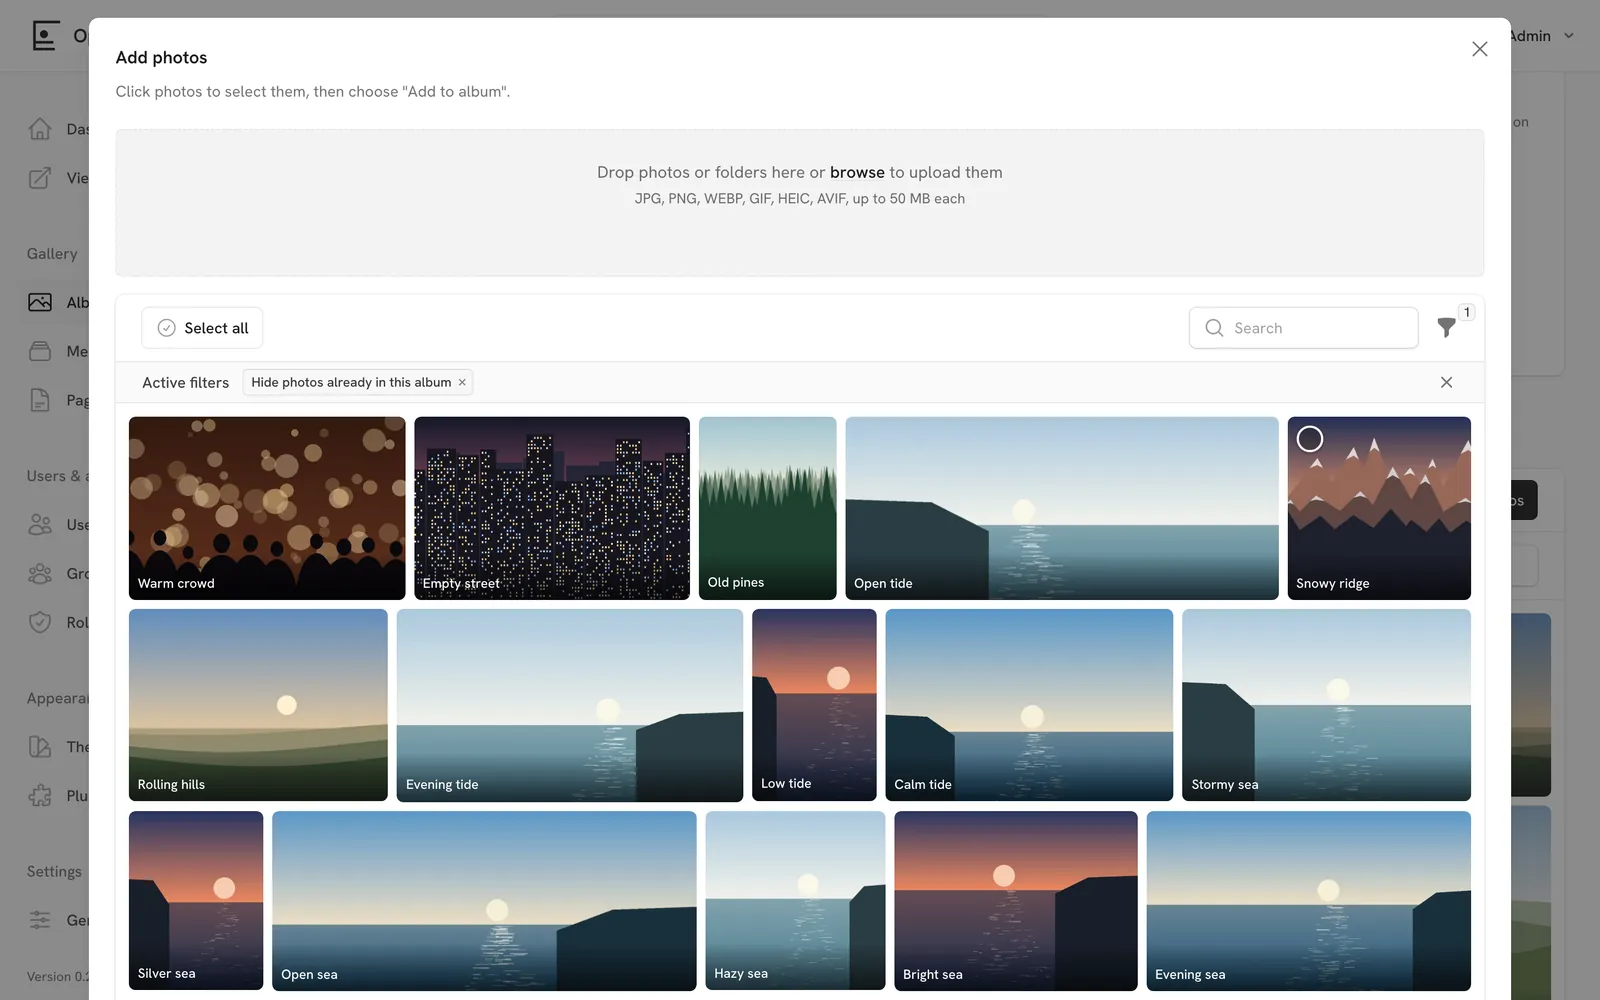
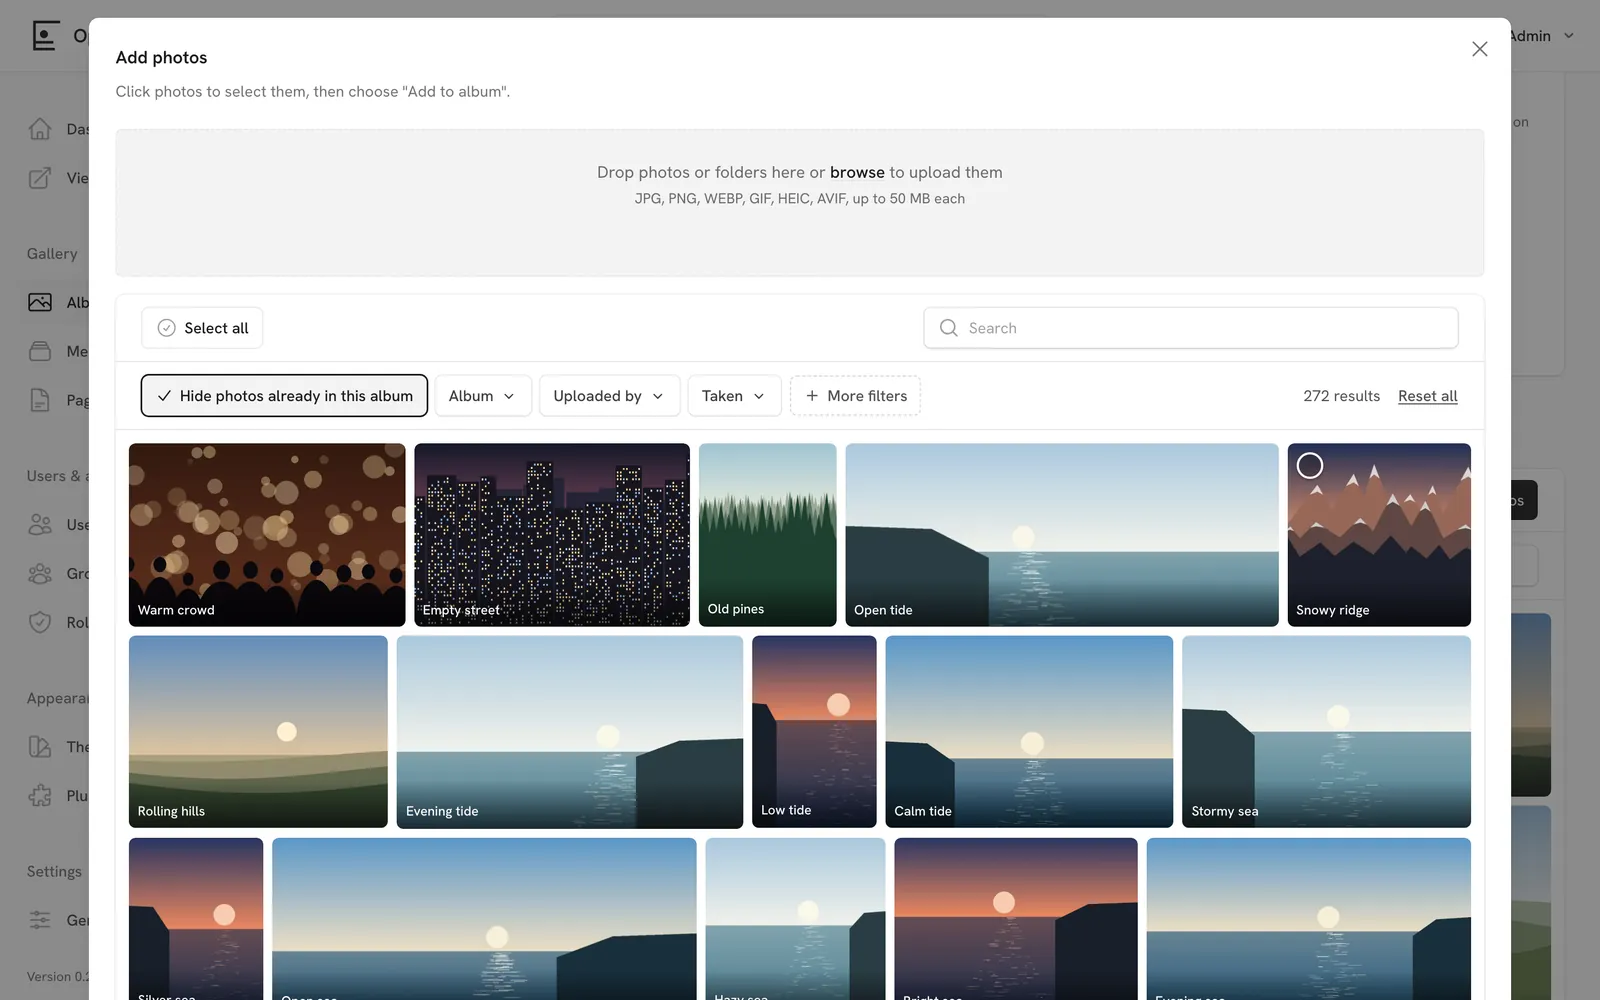
Use the filter chips in the media picker

diff --git a/tests/Feature/Backend/MediaPickerTest.php b/tests/Feature/Backend/MediaPickerTest.php
@@ -3,6 +3,7 @@
 use App\Enums\CollaboratorRole;
 use App\Enums\Permission;
 use App\Enums\Visibility;
+use App\Filament\Tables\FilterBar;
 use App\Livewire\MediaPicker;
 use App\Models\Album;
 use App\Models\Photo;
@@ -58,12 +59,29 @@ describe('for an administrator', function () {
         $picker = Livewire::test(MediaPicker::class, ['key' => 'k']);
         $table = $picker->instance()->getTable();
 
-        expect($table->getFiltersLayout())->toBe(FiltersLayout::Dropdown)
+        expect(FilterBar::uses($table))->toBeTrue()
+            ->and($table->getFiltersLayout())->toBe(FiltersLayout::Hidden)
             ->and($table->hasDeferredFilters())->toBeFalse();
 
         $picker->filterTable('uploaded', ['from' => now()->subMonths(3)->toDateString(), 'until' => now()->subMonth()->toDateString()])
             ->assertCanSeeTableRecords([$old])
             ->assertCanNotSeeTableRecords([$new]);
+    });
+
+    it('offers the photo filters of the media library', function () {
+        $album = Album::factory()->create();
+        $landscape = galleryPhoto($album, name: 'Wide.jpg', width: 300, height: 200);
+        $portrait = galleryPhoto($album, name: 'Tall.jpg', width: 200, height: 300);
+
+        $picker = Livewire::test(MediaPicker::class, ['key' => 'k']);
+        $table = $picker->instance()->getTable();
+
+        expect($table->getFilter('tags'))->not->toBeNull()
+            ->and($table->getFilter('file_name'))->not->toBeNull();
+
+        $picker->filterTable('orientation', 'portrait')
+            ->assertCanSeeTableRecords([$portrait])
+            ->assertCanNotSeeTableRecords([$landscape]);
     });
 
     it('uploads dropped photos into the configured place and selects them', function () {
@@ -159,8 +177,15 @@ describe('for people who may not use it fully', function () {
             ->assertCanSeeTableRecords([$inAlbum, $own])
             ->assertCanNotSeeTableRecords([$elsewhere]);
 
-        expect($picker->instance()->getTable()->getFilter('uploader'))->toBeNull()
-            ->and($picker->instance()->getTable()->getFilter('albums'))->toBeNull();
+        $table = $picker->instance()->getTable();
+
+        expect($table->getFilter('uploader'))->toBeNull()
+            ->and($table->getFilter('albums'))->toBeNull()
+            ->and($table->getFilter('uploaded'))->not->toBeNull();
+
+        foreach (['tags', 'orientation', 'resolution', 'file_type', 'taken', 'file_name'] as $name) {
+            expect($table->getFilter($name))->toBeNull();
+        }
     });
 
     it('refuses the picker without admin access or a role on the album', function () {

diff --git a/app/Livewire/MediaPicker.php b/app/Livewire/MediaPicker.php
@@ -3,7 +3,9 @@
 namespace App\Livewire;
 
 use App\Enums\Permission;
+use App\Filament\Resources\Photos\Tables\PhotoFilters;
 use App\Filament\Resources\Photos\Tables\PhotosTable;
+use App\Filament\Tables\FilterBar;
 use App\Filament\Tables\MediaGrid;
 use App\Models\Album;
 use App\Models\Photo;
@@ -154,7 +156,8 @@ class MediaPicker extends Component implements HasActions, HasSchemas, HasTable
 
     public function table(Table $table): Table
     {
-        return $table
+        // The same filter chips as the media library; the album scope toggle comes first.
+        return FilterBar::configure($table, primary: ['scope', 'albums', 'uploader', 'taken'])
             ->query($this->availablePhotos()->with(['media', 'albums']))
             ->defaultSort('created_at', 'desc')
             // Smaller pages than the library: the picker sits in a modal.
@@ -172,6 +175,8 @@ class MediaPicker extends Component implements HasActions, HasSchemas, HasTable
                         ->orWhereIn('photos.id', $this->justUploaded))),
                 ...($this->limitToAlbumId === null ? [PhotosTable::albumFilter(), PhotosTable::uploaderFilter()] : []),
                 PhotosTable::uploadedFilter(),
+                // Collaborators only get filters that name nobody else.
+                ...($this->limitToAlbumId === null ? PhotoFilters::all() : []),
             ])
             ->toolbarActions([
                 ...($this->multiple ? MediaGrid::selectionActions() : []),

diff --git a/docs/dev/internals/media-library.md b/docs/dev/internals/media-library.md
@@ -42,7 +42,7 @@ These changes use `updateQuietly()`, so they never show up in the activity log. 
 
 - Its query is always `Photo::visibleTo(auth()->user())`, including trashed photos, for the list, the view page and route model binding. Trashed photos are further limited to `Photo::trashableBy()` (`PhotoPolicy::delete()` in SQL: the uploader, or someone who may edit all of the photo's albums): `PhotoResource::modifyTrashQuery()` for the trash page and its count (applied by `TrashActions::trashFor()`), and in the record binding, so a trashed photo's view page opens for nobody else, just as `MediaController` serves its files.
 - `$mediaLayout` (trait `App\Filament\Resources\Photos\Pages\Concerns\HasMediaLayout`, used by `ListPhotos` and `ListTrashedPhotos`) switches between the list and the grid layout; both pages share the choice for the session. The "List" / "Grid" buttons are rendered by `App\Filament\Tables\MediaLayoutSwitch::render()` on `TablesRenderHook::TOOLBAR_END` (view `filament.tables.layout-switch`, icons only on phones) and call `setLayout()`; the trait has no `mediaLayoutActions()` and the pages have no `listLayout` / `gridLayout` header actions. Both layouts use the same search and filters from `PhotosTable`; only columns, page sizes and record actions differ. In the list layout the title, file name, album path and uploader name are cut at `PhotosTable::TEXT_LIMIT` (40) characters with the full text as a tooltip. Each album links to `AlbumResource` edit when `AlbumResource::canEdit()` allows it, the uploader to `UserResource` edit when `UserResource::canEdit()` allows it; otherwise they are plain text.
-- `PhotosTable::configure()` shows the filters as chips (`FilterBar::configure()`, see [Admin UI conventions](admin-ui.md#the-filter-bar)); primary chips: `albums`, `taken`, `tags`, `uploader`, `orientation`, the rest are under "More filters". `PhotosTable::albumFilter()`, `uploaderFilter()` and `uploadedFilter()` are shared with the photo picker, which keeps Filament's dropdown (`albumFilter()` is single-select there, `multiple: true` in the library, so the URL is `?filters[albums][values][]={id}`). Reuse them for any new photo list. `App\Filament\Resources\Photos\Tables\PhotoFilters::all()` adds the media library's own filters (list, grid and trash, not the picker): `tags` (multiple, visible only while `SiteSettings::taggingEnabled()`, with a "Without tags" empty option; it replaces the old `tagged` filter); `license`, visible only while `Licensing::enabled()`; `taken` (`DateRangeFilter` on `photos.taken_at`); `orientation` (landscape, portrait, square, from `width` and `height`); `resolution` (under 2 MP, 2-12 MP, over 12 MP, from `width * height`); `file_type` (multiple, the `gallery.accepted_mime_types` matched on the media's `mime_type`); `missing` (multiple: photos lacking any ticked detail among title, description, `taken_at` and, while licensing is on, license; `PhotoFilters::whereMissing()`); `album_count` (none / one / several, `has('albums', ...)`); `favorites` (toggle: the current user's rows of `photo_favorites`); and `file_name`, a `TextFilter` substring match on the media's `file_name`. `PhotoFilters::whereContains($query, $column, $text, $boolean)` is the portable "contains" query: it escapes `!`, `%` and `_` and uses `LIKE ? ESCAPE '!'`, which MySQL, MariaDB and SQLite all accept. Use it instead of a plain `like` for user-typed text.
+- `PhotosTable::configure()` shows the filters as chips (`FilterBar::configure()`, see [Admin UI conventions](admin-ui.md#the-filter-bar)); primary chips: `albums`, `taken`, `tags`, `uploader`, `orientation`, the rest are under "More filters". `PhotosTable::albumFilter()`, `uploaderFilter()`, `uploadedFilter()` and `PhotoFilters::all()` are shared with the photo picker, which uses the same filter bar (`albumFilter()` is single-select there, `multiple: true` in the library, so the URL is `?filters[albums][values][]={id}`). Reuse them for any new photo list. `App\Filament\Resources\Photos\Tables\PhotoFilters::all()` adds the media library's own filters (list, grid, trash and the picker, except for collaborators): `tags` (multiple, visible only while `SiteSettings::taggingEnabled()`, with a "Without tags" empty option; it replaces the old `tagged` filter); `license`, visible only while `Licensing::enabled()`; `taken` (`DateRangeFilter` on `photos.taken_at`); `orientation` (landscape, portrait, square, from `width` and `height`); `resolution` (under 2 MP, 2-12 MP, over 12 MP, from `width * height`); `file_type` (multiple, the `gallery.accepted_mime_types` matched on the media's `mime_type`); `missing` (multiple: photos lacking any ticked detail among title, description, `taken_at` and, while licensing is on, license; `PhotoFilters::whereMissing()`); `album_count` (none / one / several, `has('albums', ...)`); `favorites` (toggle: the current user's rows of `photo_favorites`); and `file_name`, a `TextFilter` substring match on the media's `file_name`. `PhotoFilters::whereContains($query, $column, $text, $boolean)` is the portable "contains" query: it escapes `!`, `%` and `_` and uses `LIKE ? ESCAPE '!'`, which MySQL, MariaDB and SQLite all accept. Use it instead of a plain `like` for user-typed text.
 - One photo page, two classes with the same layout. `PhotoResource::opensForEditing(Photo)` (not trashed and `PhotoPolicy::update()`) decides which one: `PhotoResource::detailUrl(Photo)` returns the `edit` URL for editors and the `view` URL otherwise. Use `detailUrl()` for every link to a photo (the list's `recordUrl`, the grid tile's "Open details" button, the dashboard's "Your recent uploads", activity log links), never a hard-coded route. `ViewPhoto::mount()` redirects editors to `edit`, and `EditPhoto::mount()` sends a trashed photo to `view`, so a stale link always lands on the right page.
 - `EditPhoto` is the photo page for editors: the form (`PhotoForm`) with the preview (`og-fill` sections) and the editable title and description, "Where it is" (editable albums and tags, read-only "Cover of", and the license field `PhotoForm::licenseField()`, shown while `Licensing::enabled()` and read-only when `Licensing::canChoose()` is false) and "History" (read-only uploader, uploaded and last changed, editable taken date) on the right, and the read-only "File" and "Camera" sections in a second row. Saving stays on the page (`getRedirectUrl()` returns null). The form's album field only accepts albums the person may upload to and only removes the photo from albums they may edit.
 - `ViewPhoto` is the read-only version, for photos in the trash and for people who may see but not edit a photo. It shows the preview and the infolist (`PhotoInfolist`) in the same arrangement: row 1 the preview with "Where it is" and "History", row 2 a two-column grid with "File" (full width when `hasCameraData()` is false) and "Camera". The albums, "Cover of" and "Uploaded by" entries link to the `AlbumResource` / `UserResource` edit page only when `AlbumResource::canEdit()` / `UserResource::canEdit()` allow it, and are plain text otherwise. `PhotoForm` reuses the public static helpers of `PhotoInfolist` (`previewImage()`, `coverOfEntry()`, `licenseEntry()`, `uploaderEntry()`, `uploadedEntry()`, `changedEntry()`, `fileSection()`, `cameraSection()`, `hasCameraData()`), so change those once and both pages follow.
@@ -86,7 +86,7 @@ With `namedByTitle: true`, `PhotoZip::make()` sets the in-memory custom property
 
 Choosing photos anywhere in the admin goes through one component. **Never build another photo chooser.**
 
-- `App\Livewire\MediaPicker`: the picker itself, a Livewire table of `Photo::visibleTo()` (for albums and covers also `Photo::reusableBy()`) with the media library's filters and an upload drop zone. It only selects; it never changes data.
+- `App\Livewire\MediaPicker`: the picker itself, a Livewire table of `Photo::visibleTo()` (for albums and covers also `Photo::reusableBy()`) with the media library's filter chips (`FilterBar::configure()`; primary chips: the `scope` toggle, `albums`, `uploader`, `taken`) and an upload drop zone. The `scope` toggle ("Hide photos already in this album" with `scope: 'exclude'`, "Only photos in this album" with `'only'`) is on by default and exists only when the opener passed `scopeAlbum()`. When `limitToAlbumId` is set (collaborators), only `scope` and the `uploaded` date filter remain. It only selects; it never changes data.
 - `App\Filament\Actions\PickMediaAction`: an action that opens the picker in a modal and runs JavaScript with the result.
 - `App\Filament\Forms\Components\MediaPickerField`: a form field built on the action; its state is a photo id, or a list of ids with `->multiple()`.
 

diff --git a/docs/dev/internals/admin-ui.md b/docs/dev/internals/admin-ui.md
@@ -8,7 +8,7 @@ The admin is built with Filament. A few shared rules keep its screens consistent
 
 ## Lists and filters
 
-Every admin list shows its filters as a row of chips above the table (`App\Filament\Tables\FilterBar`). `AppServiceProvider::boot()` sets the default for all other tables with `Table::configureUsing()`: filters in a dropdown behind the funnel icon next to the search (`FiltersLayout::Dropdown`), applied immediately (`deferFilters(false)`). The media picker (`App\Livewire\MediaPicker`) is the one core table that keeps this dropdown. Do not override the layout or deferral in a single table beyond calling `FilterBar`.
+Every admin list shows its filters as a row of chips above the table (`App\Filament\Tables\FilterBar`). `AppServiceProvider::boot()` sets the default for all other tables with `Table::configureUsing()`: filters in a dropdown behind the funnel icon next to the search (`FiltersLayout::Dropdown`), applied immediately (`deferFilters(false)`). Core tables all call `FilterBar::configure()`, including the media picker (`App\Livewire\MediaPicker`, primary chips `scope`, `albums`, `uploader`, `taken`). Do not override the layout or deferral in a single table beyond calling `FilterBar`.
 
 ### The filter bar
 
@@ -35,7 +35,7 @@ Further rules:
 - **Dates**: use `App\Filament\Tables\Filters\DateRangeFilter` for any date filter. It renders one "From – To" field and an indicator such as "Uploaded since 03.11.2026"; in the filter bar it becomes a chip with the quick picks. Qualify the column when the query joins other tables.
 - **Date format**: every date and time is shown as `DD.MM.YYYY HH:MM` (seconds only where they matter, such as the activity log), in every language. The formats are the constants of `App\Support\DateFormat`. `AppServiceProvider` makes them the defaults of every table, infolist and date picker (pickers use Filament's own calendar, `native(false)`, Monday first), so call `->dateTime()` / `->date()` without a format. In PHP and Blade use `DateFormat::date()`, `dateTime()` or `dateTimeWithSeconds()`; never `isoFormat('LL')`, `diffForHumans()` or `->since()`.
 - **Users**: filters that choose a person are `searchable()` and never `preload()`, because a site can have thousands of users. Short lists such as roles, groups and albums may preload.
-- **Shared filters**: when two tables show the same records, share the filter definitions instead of copying them. The media library and the picker both use `PhotosTable::albumFilter()` (`multiple: true` in the library, one album in the picker), `uploaderFilter()` and `uploadedFilter()`.
+- **Shared filters**: when two tables show the same records, share the filter definitions instead of copying them. The media library and the picker both use `PhotosTable::albumFilter()` (`multiple: true` in the library, one album in the picker), `uploaderFilter()`, `uploadedFilter()` and `PhotoFilters::all()`.
 - **Layouts**: a table with a list and a grid layout (the media library) keeps the same filters and search in both; only columns, page sizes and record actions change.
 
 ```php

diff --git a/docs/dev/architecture/access-model.md b/docs/dev/architecture/access-model.md
@@ -185,7 +185,7 @@ Collaborators use the standard album pages; there is no separate workflow on the
 - **List and edit page:** `AlbumResource::getEloquentQuery()` uses `Album::workableBy()` (`manageableBy()` plus the person's role albums) and `getEditAuthorizationResponse()` uses `workOn`. `AlbumPolicy::update()` stays closed, so never replace a check on it with `workOn`.
 - **Form (`AlbumForm`, `EditAlbum`):** read-only without `update` or `editSettings`, and `save` answers 403. For Editors, `mutateFormDataBeforeSave()` keeps only `AlbumSettings::EDITOR_FIELDS`, because `Album` has `owner_id` and `parent_id` in `$fillable`. Editors without `searchDirectory` get `PeopleAndGroupsSelect::onlyKeys()` and `syncShareKeys()` only removes for them.
 - **Photos section (`PhotosRelationManager`):** the same actions, each with its own ability. Role holders get no trash and no link to the media library. A photo in no other album leaves through `removePhotos(moveLastCopies: true)`.
-- **Media picker:** `AlbumCollaboration::pickerAlbumId()` limits it (`limitToAlbum()`, `MediaPicker::$limitToAlbumId`) to this album's photos and the person's uploads, without the album and uploader filters, which would name other people.
+- **Media picker:** `AlbumCollaboration::pickerAlbumId()` limits it (`limitToAlbum()`, `MediaPicker::$limitToAlbumId`) to this album's photos and the person's uploads, without the album, uploader and photo filters (`PhotoFilters::all()`), which would name other people.
 - **Deleting sub-albums:** their creator passes `delete`, `restore` and `forceDelete` through `createdThroughRole()`, based on `albums.created_by` and a current role on the parent. `workableBy()` keeps those albums in their trash list. `AlbumDeletionForm` removes the "delete these photos" choice for them, so their deletion never removes photos.
 - **Sub-albums:** "Add album inside" opens `CreateAlbum` with `?parent=`. Through a role it stores the parent in `$sharedParentId`, shows only the album card and saves the parent's `owner_id` and `Private`, whatever the request says.
 

diff --git a/docs/user/content/albums.md b/docs/user/content/albums.md
@@ -45,7 +45,7 @@ Click **New album** in the albums list or **New album** on your "My albums" page
 Open the album and scroll to the **Photos** section below the form. Click **Add photos** to open the media picker. On the site, people who may add photos to an album see an **Add photos** button at the top of the album's page, which opens the album here with the picker already open. In the picker you can:
 
 - drop new photos, or whole folders of photos, on the upload area (or browse for them). They are uploaded straight into this album and selected for you;
-- choose photos that are already in the library, filtered by album, uploader or upload date with the funnel icon, the same filters as in the media library (the picker keeps this filter menu instead of the chips). The filter "Hide photos already in this album" is on when the picker opens; remove it to see every photo.
+- choose photos that are already in the library. The picker has the same filter chips as the media library (see [Finding photos](photos.md#finding-photos)). The chip **Hide photos already in this album** is on when the picker opens; click its cross or the chip to see every photo. Next to it are **Album**, **Uploaded by** and **Taken**; the others, such as **Uploaded**, tags, license, shape and file name, are under **+ More filters**. The number of results and **Reset all** are at the right end of the row. On a phone a chip opens as a sheet from the bottom.
 
 The upload area lists the file types and the largest size this gallery accepts (see [Site settings](../administration/settings.md#uploads)).
 

diff --git a/docs/user/content/sharing.md b/docs/user/content/sharing.md
@@ -127,7 +127,7 @@ The albums list shows the albums you work on, with **Your role**. On an album's 
 | List of collaborators | Can see | Can see | Can see |
 | **Leave album** | Yes | Yes | Yes |
 
-- **Add photos** opens the usual picker, which shows this album's photos and your own uploads.
+- **Add photos** opens the usual picker, which shows this album's photos and your own uploads. Its filters are limited to **Only photos in this album** (or **Hide photos already in this album**) and **Uploaded**, because the others would name other people's photos.
 - **Remove from album** keeps photos in their other albums. A photo in no other album moves to the "Unsorted uploads" of the person who uploaded it.
 - **Add album inside** creates an album that belongs to the owner of the album it is in. It is private until the owner, staff or an Editor publishes it.
 - **A sub-album you created** can be moved to the trash, restored and deleted by you, whatever your role, as long as you still work on the album it is in. Deleting it never deletes photos: photos in no other album move to "Unsorted uploads", your own uploads to yours and the rest to the owner's.

diff --git a/docs/user/getting-started/admin-area.md b/docs/user/getting-started/admin-area.md
@@ -101,7 +101,7 @@ Names are plain text when you may not open what they point to: a person's page n
 
 An empty list says what it is for and offers its first step, for example **New album**. If the search or a filter hides every row, it says "Nothing matches" instead; change the search or the filters.
 
-The media library keeps its search and filters when you switch between list and grid. It has the most filters, for example tags, license, shape, resolution and file name (see [Finding photos](../content/photos.md#finding-photos)); the photo picker in an album ("Add photos") keeps a simpler filter menu behind a funnel icon, with the album, uploader and upload date filters of the media library.
+The media library keeps its search and filters when you switch between list and grid. It has the most filters, for example tags, license, shape, resolution and file name (see [Finding photos](../content/photos.md#finding-photos)); the photo picker ("Add photos" in an album, choosing a cover) uses the same chips and filters.
 
 ## Finding the documentation
 

diff --git a/docs/user/content/photos.md b/docs/user/content/photos.md
@@ -48,7 +48,7 @@ Under **+ More filters** you find the others; each gets its own chip once you se
 
 Photos in the trash are not in the media library; they have their own page (see [The trash](#the-trash)), with the same filters.
 
-The filters are the same in the list and the grid. The photo picker of an album keeps a simpler filter menu behind a funnel icon, with only **Album**, **Uploaded by** and **Uploaded**.
+The filters are the same in the list and the grid. The photo picker ("Add photos" in an album, choosing a cover or a photo for a page) offers the same chips and the same **+ More filters**, plus one chip for the album you are working on: **Hide photos already in this album** when adding photos, **Only photos in this album** when choosing a cover. That chip is on when the picker opens.
 
 ## Working with several photos
 
